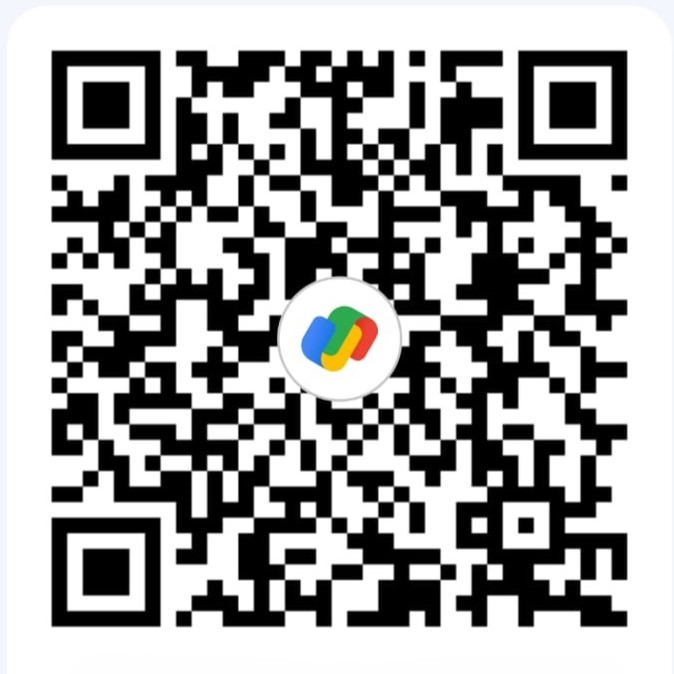
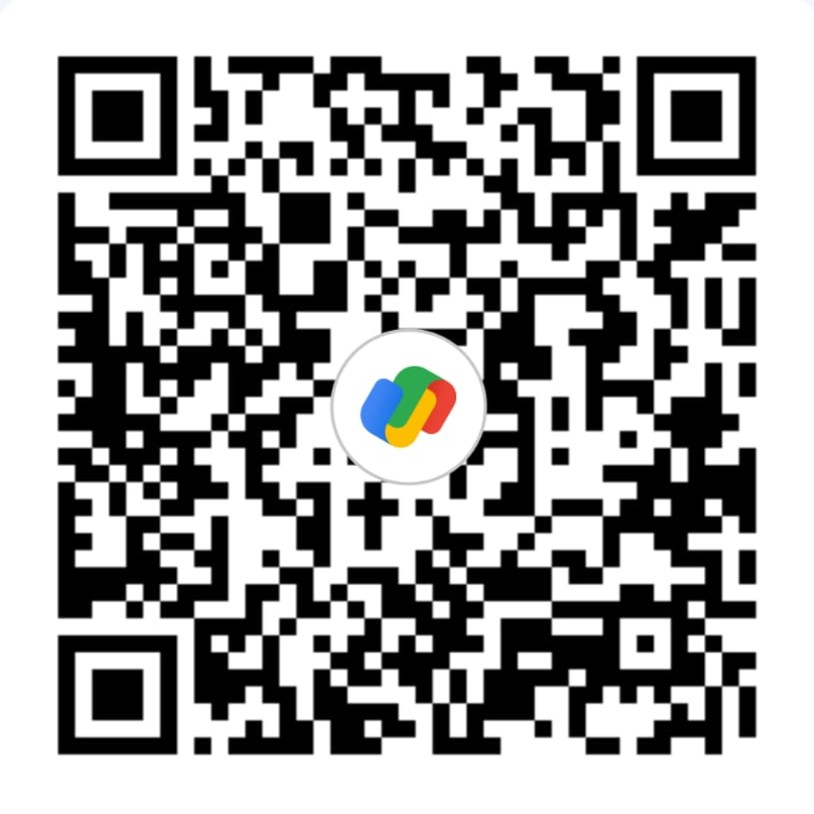
qr changes

diff --git a/app/payment/page.tsx b/app/payment/page.tsx
@@ -119,7 +119,7 @@ export default function PaymentPage() {
       })
       setCopied(true)
 
-      const upiUrl = `upi://pay?pa=9674785422.etb@icici&pn=KhelConnect&am=1&cu=INR&tn=Booking+ID:+123`
+      const upiUrl = `upi://pay`
       window.location.href = upiUrl
 
       setTimeout(() => setCopied(false), 1000)
